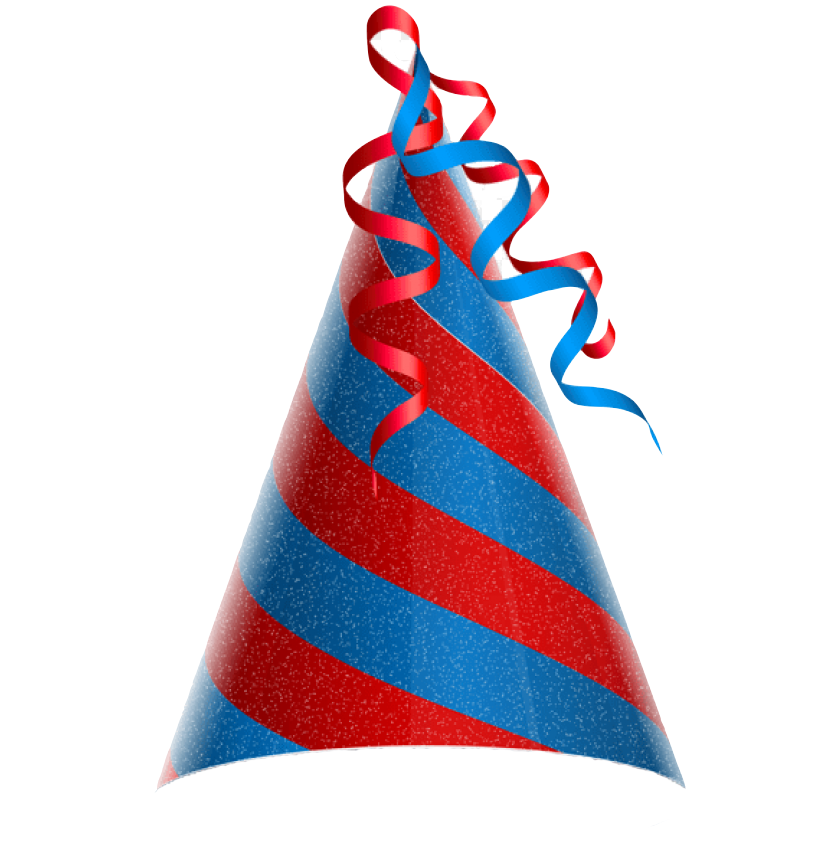
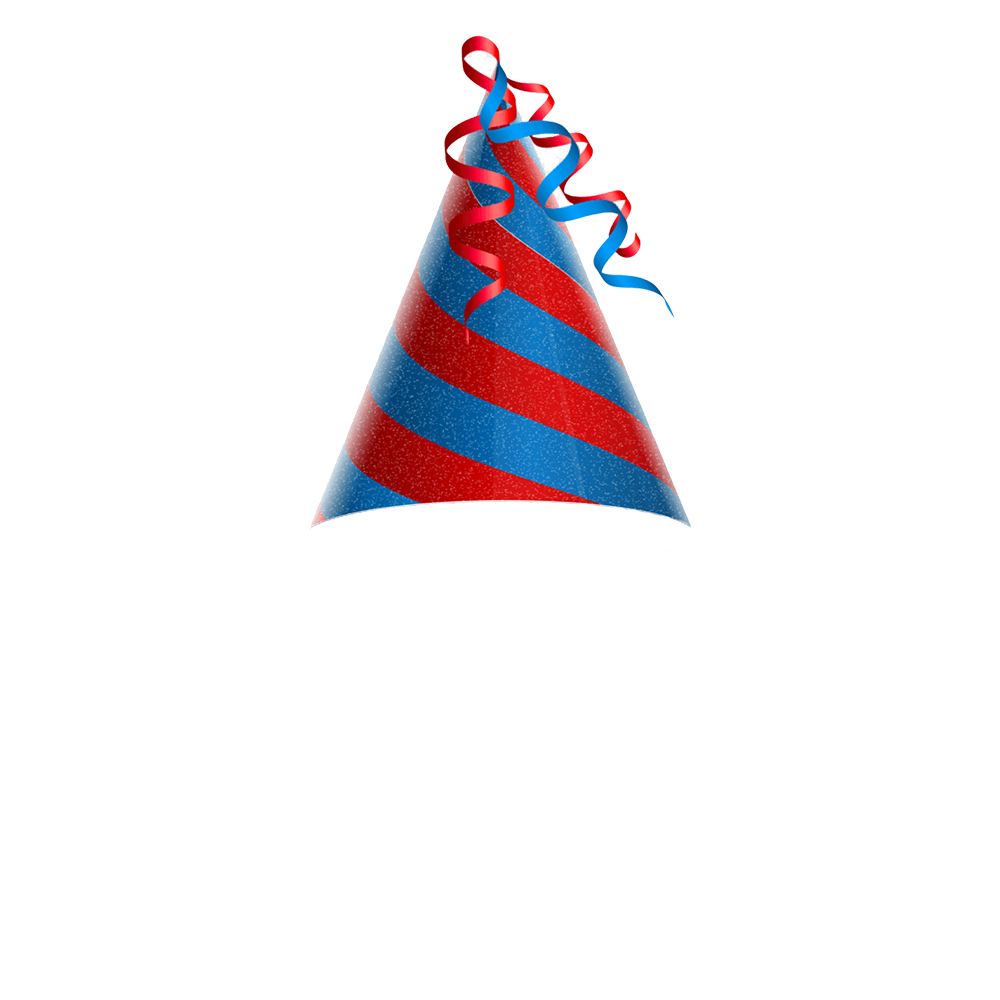
delete redundant images

Changed region(s): [[0.1857, 0.0, 0.8357, 0.9383]]

diff --git a/react/features/stream-effects/ar-effect/JitsiStreamAREffect.js b/react/features/stream-effects/ar-effect/JitsiStreamAREffect.js
@@ -62,7 +62,7 @@ export default class JitsiStreamAREffect {
 
         this._arObj = document.createElement('img');
         this._arObj.crossOrigin = 'anonymous';
-        this._arObj.src = 'images/ar-object/birthday_hat_sq_center3.png';
+        this._arObj.src = 'images/ar-object/birthday_hat.png';
     }
 
     /**
